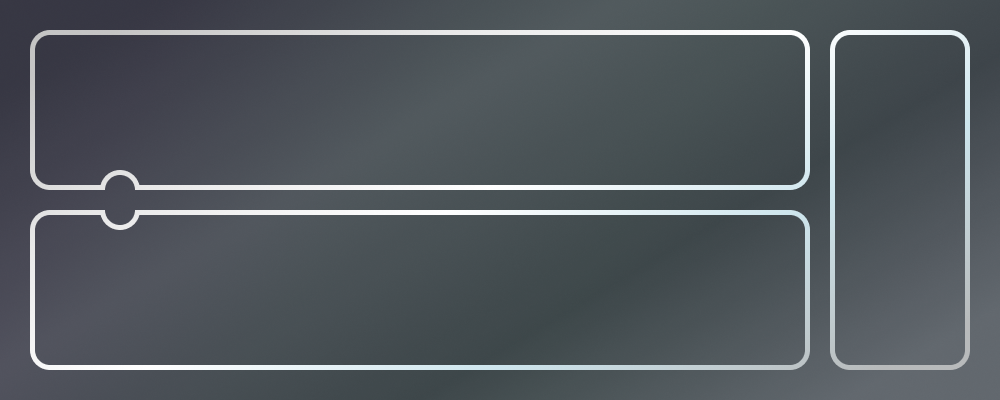
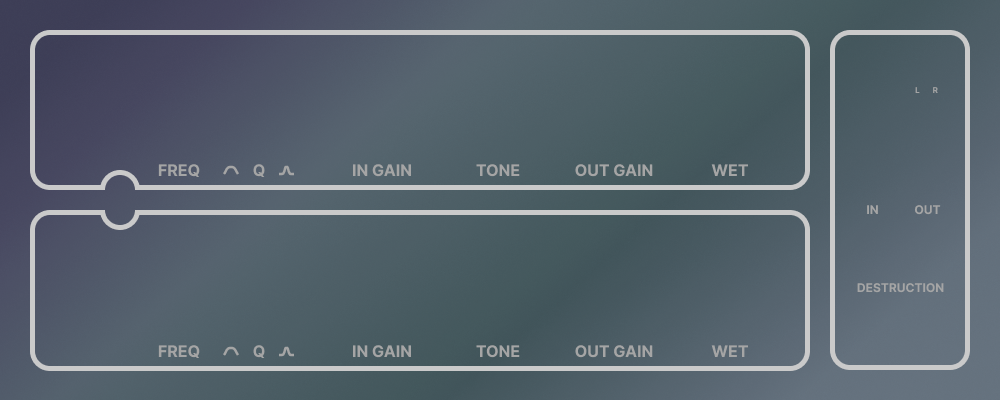
Tone filter implemented

Changed region(s): [[0.031, 0.0, 1.0, 0.93], [0.837, 0.69, 0.961, 0.75], [0.465, 0.0, 0.496, 0.03]]

diff --git a/ADHD/Source/PluginEditor.cpp b/ADHD/Source/PluginEditor.cpp
@@ -22,7 +22,15 @@ ADHDAudioProcessorEditor::ADHDAudioProcessorEditor(ADHDAudioProcessor& p): Audio
     //LRButton.setToggleState(true, false);
     //linkButton.setToggleState(true, false);
     
+    bg = juce::ImageCache::getFromMemory(BinaryData::GUI_definitivaBG_png, BinaryData::GUI_definitivaBG_pngSize);
+    bgD = juce::ImageCache::getFromMemory(BinaryData::GUI_definitivaBG_Destroy_png, BinaryData::GUI_definitivaBG_Destroy_pngSize);
     
+    lrLabel = juce::ImageCache::getFromMemory(BinaryData::LR_labels_png, BinaryData::LR_labels_pngSize);
+    msLabel = juce::ImageCache::getFromMemory(BinaryData::MS_labels_png, BinaryData::MS_labels_pngSize);
+    lrLabelMeter = juce::ImageCache::getFromMemory(BinaryData::LR_labels_meters_png, BinaryData::LR_labels_meters_pngSize);
+    msLabelMeter = juce::ImageCache::getFromMemory(BinaryData::MS_labels_meters_png, BinaryData::MS_labels_meters_pngSize);
+
+
     linkButton.onClick = [this] {
         bool stateLink = linkButton.getToggleState();
         if(stateLink)
@@ -64,6 +72,8 @@ ADHDAudioProcessorEditor::ADHDAudioProcessorEditor(ADHDAudioProcessor& p): Audio
     channelOnLLAttachment.reset (new juce::AudioProcessorValueTreeState::ButtonAttachment (audioProcessor.treeState, "CHANNELONL", *channelL.getChannelOn()));
     channelOnRRAttachment.reset (new juce::AudioProcessorValueTreeState::ButtonAttachment (audioProcessor.treeState, "CHANNELONR", *channelR.getChannelOn()));
 
+    toneLLAttachment.reset(new juce::AudioProcessorValueTreeState::SliderAttachment(audioProcessor.treeState, "TONEL", *channelL.getToneDial()));
+    toneRRAttachment.reset(new juce::AudioProcessorValueTreeState::SliderAttachment(audioProcessor.treeState, "TONER", *channelR.getToneDial()));
 
     destroyButton.setLookAndFeel(&dbLeF);
     
@@ -133,6 +143,10 @@ ADHDAudioProcessorEditor::ADHDAudioProcessorEditor(ADHDAudioProcessor& p): Audio
         repaint();
     };
 
+    msLr.onClick = [this] {
+        repaint();
+    };
+
     bool state = destroyButton.getToggleState();
     bkLeF.setDestroy(state);
     lkLeF.setDestroy(state);
@@ -173,8 +187,17 @@ ADHDAudioProcessorEditor::~ADHDAudioProcessorEditor()
 //=============================================================================
 void ADHDAudioProcessorEditor::paint (juce::Graphics& g)
 {
-    g.drawImageAt(juce::ImageCache::getFromMemory(BinaryData::GUI_definitivaBGMS_png, BinaryData::GUI_definitivaBGMS_pngSize), 0, 0);
+    if (destroyButton.getToggleState()) g.drawImageAt(bgD, 0, 0);
+    else g.drawImageAt(bg, 0, 0);
 
+    if (!msLr.getToggleState()) {
+        g.drawImageAt(lrLabel, 77, 82);
+        g.drawImageAt(lrLabelMeter, 859, 86);
+    }
+    else {
+        g.drawImageAt(msLabel, 77, 82);
+        g.drawImageAt(msLabelMeter, 859, 86);
+    }
 
     // (Our component is opaque, so we must completely fill the background with a solid colour)
     juce::Rectangle<int> channelAreaL(30, 30, 780, 160);
@@ -287,11 +310,11 @@ void ADHDAudioProcessorEditor::resized()
     //MSButton.setBounds(MSButtonArea);
     msLr.setBounds(msLrArea);
     
-    juce::Rectangle<int> inMeterAreaL(20 + xOffset, 60 + yOffset, 20, 120);
-    juce::Rectangle<int> inMeterAreaR(40 + xOffset, 60 + yOffset, 20, 120);
+    juce::Rectangle<int> inMeterAreaL(26 + xOffset, 65 + yOffset, 17, 105);
+    juce::Rectangle<int> inMeterAreaR(44 + xOffset, 65 + yOffset, 17, 105);
     
-    juce::Rectangle<int> outMeterAreaL(80 + xOffset, 60 + yOffset, 20, 120);
-    juce::Rectangle<int> outMeterAreaR(100 + xOffset, 60 + yOffset, 20, 120);
+    juce::Rectangle<int> outMeterAreaL(79 + xOffset, 65 + yOffset, 17, 105);
+    juce::Rectangle<int> outMeterAreaR(97 + xOffset, 65 + yOffset, 17, 105);
     
     plMeterInL.setBounds(inMeterAreaL);
     plMeterInR.setBounds(inMeterAreaR);
@@ -306,29 +329,32 @@ void ADHDAudioProcessorEditor::resized()
 
 void ADHDAudioProcessorEditor::setLinkedAttachments() {
     
+    // R -> L
     gainRLAttachment.reset (new juce::AudioProcessorValueTreeState::SliderAttachment (audioProcessor.treeState, "GAINL", *channelR.getInGainDial()));
     volumeRLAttachment.reset (new juce::AudioProcessorValueTreeState::SliderAttachment (audioProcessor.treeState, "VOLUMEL", *channelR.getOutGainDial()));
     dryWetRLAttachment.reset (new juce::AudioProcessorValueTreeState::SliderAttachment (audioProcessor.treeState, "DRYWETL", *channelR.getDryWetDial()));
     freqRLAttachment.reset (new juce::AudioProcessorValueTreeState::SliderAttachment (audioProcessor.treeState, "FREQL", *channelR.getFreqDial()));
     qRLAttachment.reset (new juce::AudioProcessorValueTreeState::SliderAttachment (audioProcessor.treeState, "QL", *channelR.getQFactorDial()));
-    eqBPLRAttachment.reset (new juce::AudioProcessorValueTreeState::ButtonAttachment (audioProcessor.treeState, "EQBPR", *channelL.getFilterBP()));
     eqLPRLAttachment.reset (new juce::AudioProcessorValueTreeState::ButtonAttachment (audioProcessor.treeState, "EQLPL", *channelR.getFilterLP()));
     eqBPRLAttachment.reset (new juce::AudioProcessorValueTreeState::ButtonAttachment (audioProcessor.treeState, "EQBPL", *channelR.getFilterBP()));
     eqHPRLAttachment.reset (new juce::AudioProcessorValueTreeState::ButtonAttachment (audioProcessor.treeState, "EQHPL", *channelR.getFilterHP()));
     eqOnRLAttachment.reset (new juce::AudioProcessorValueTreeState::ButtonAttachment (audioProcessor.treeState, "EQONL", *channelR.getFilterOn()));
     channelOnRLAttachment.reset (new juce::AudioProcessorValueTreeState::ButtonAttachment (audioProcessor.treeState, "CHANNELONL", *channelR.getChannelOn()));
+    toneRLAttachment.reset(new juce::AudioProcessorValueTreeState::SliderAttachment(audioProcessor.treeState, "TONEL", *channelR.getToneDial()));
     
-    
+    // L -> R
     gainLRAttachment.reset (new juce::AudioProcessorValueTreeState::SliderAttachment (audioProcessor.treeState, "GAINR", *channelL.getInGainDial()));
     volumeLRAttachment.reset (new juce::AudioProcessorValueTreeState::SliderAttachment (audioProcessor.treeState, "VOLUMER", *channelL.getOutGainDial()));
     dryWetLRAttachment.reset (new juce::AudioProcessorValueTreeState::SliderAttachment (audioProcessor.treeState, "DRYWETR", *channelL.getDryWetDial()));
     freqLRAttachment.reset (new juce::AudioProcessorValueTreeState::SliderAttachment (audioProcessor.treeState, "FREQR", *channelL.getFreqDial()));
     qLRAttachment.reset (new juce::AudioProcessorValueTreeState::SliderAttachment (audioProcessor.treeState, "QR", *channelL.getQFactorDial()));
     eqLPLRAttachment.reset (new juce::AudioProcessorValueTreeState::ButtonAttachment (audioProcessor.treeState, "EQLPR", *channelL.getFilterLP()));
+    eqBPLRAttachment.reset (new juce::AudioProcessorValueTreeState::ButtonAttachment (audioProcessor.treeState, "EQBPR", *channelL.getFilterBP()));
     eqHPLRAttachment.reset (new juce::AudioProcessorValueTreeState::ButtonAttachment (audioProcessor.treeState, "EQHPR", *channelL.getFilterHP()));
     eqOnLRAttachment.reset (new juce::AudioProcessorValueTreeState::ButtonAttachment (audioProcessor.treeState, "EQONR", *channelL.getFilterOn()));
     channelOnLRAttachment.reset (new juce::AudioProcessorValueTreeState::ButtonAttachment (audioProcessor.treeState, "CHANNELONR", *channelL.getChannelOn()));
-     
+    toneLRAttachment.reset(new juce::AudioProcessorValueTreeState::SliderAttachment(audioProcessor.treeState, "TONER", *channelL.getToneDial()));
+   
 }
 
 void ADHDAudioProcessorEditor::setUnlinkedAttachments() {
@@ -343,6 +369,9 @@ void ADHDAudioProcessorEditor::setUnlinkedAttachments() {
     freqRLAttachment.reset ();
     qLRAttachment.reset ();
     qRLAttachment.reset ();
+
+    toneLRAttachment.reset();
+    toneRLAttachment.reset();
     
     eqLPLRAttachment.reset ();
     eqBPLRAttachment.reset ();

diff --git a/ADHD/Source/PluginProcessor.cpp b/ADHD/Source/PluginProcessor.cpp
@@ -60,7 +60,11 @@ oversamplingModuleR(1, overSampFactor, juce::dsp::Oversampling<float>::FilterTyp
     treeState.addParameterListener("QR", this);
     treeState.addParameterListener("FREQR", this);
     treeState.addParameterListener("DISTTYPE", this);
+
     treeState.addParameterListener("DESTROYGAIN", this);
+
+    treeState.addParameterListener("TONEL", this);
+    treeState.addParameterListener("TONER", this);
 }
 
 ADHDAudioProcessor::~ADHDAudioProcessor()
@@ -96,7 +100,11 @@ ADHDAudioProcessor::~ADHDAudioProcessor()
     treeState.removeParameterListener("QR", this);
     treeState.removeParameterListener("DISTTYPE", this);
     treeState.removeParameterListener("FREQR", this);
+
     treeState.removeParameterListener("DESTROYGAIN", this);
+
+    treeState.removeParameterListener("TONEL", this);
+    treeState.removeParameterListener("TONER", this);
 
 }
 
@@ -184,8 +192,12 @@ void ADHDAudioProcessor::prepareToPlay (double sampleRate, int samplesPerBlock)
     
     filterL.reset();
     filterR.reset();
+    toneFilterL.reset();
+    toneFilterR.reset();
     filterL.prepare(spec);
     filterR.prepare(spec);
+    toneFilterL.prepare(spec);
+    toneFilterR.prepare(spec);
     
     rmsLevelInLeft.reset(sampleRate* pow(2, overSampFactor), 0.5);
     rmsLevelInRight.reset(sampleRate* pow(2, overSampFactor), 0.5);
@@ -263,8 +275,12 @@ void ADHDAudioProcessor::processBlock(juce::AudioBuffer<float>& buffer, juce::Mi
     for (auto i = totalNumInputChannels; i < totalNumOutputChannels; ++i)
         buffer.clear(i, 0, buffer.getNumSamples());
     
+    // FILTERS
+    toneFilterL.setType(juce::dsp::StateVariableTPTFilterType::lowpass);
+    toneFilterR.setType(juce::dsp::StateVariableTPTFilterType::lowpass);
     
-    
+    toneFilterL.setResonance(2.0f);
+    toneFilterR.setResonance(2.0f);
     
     //multi channel audio block that englobes the audio buffer used as audio source before oversampling
     juce::dsp::AudioBlock<float> srcBlockL(bufferL);
@@ -411,6 +427,9 @@ void ADHDAudioProcessor::processBlock(juce::AudioBuffer<float>& buffer, juce::Mi
     }
     //      }
     
+    // tone processing
+    toneFilterL.process(juce::dsp::ProcessContextReplacing <float>(overSBlockL));
+    toneFilterR.process(juce::dsp::ProcessContextReplacing <float>(overSBlockR));
     
     
     //parallel drywet channels Sum
@@ -543,7 +562,6 @@ void ADHDAudioProcessor::updateFilters(int numOfFilter, int type, float q, float
             filterL.setType(juce::dsp::StateVariableTPTFilterType::lowpass);
             filterL.setCutoffFrequency(freq);
             filterL.setResonance(q);
-            DBG("Freq: "<<freq);
         } else if(type==1){
             /*filterL.parameters->type = juce::dsp::
             StateVariableFilter::Parameters<float>::Type::bandPass;
@@ -762,6 +780,12 @@ juce::AudioProcessorValueTreeState::ParameterLayout ADHDAudioProcessor::createPa
 
     auto destroyGain = std::make_unique<juce::AudioParameterFloat>("DESTROYGAIN", "Gain of Destroy Section", 0.0f, 1.0f, 0.f);
     parameters.push_back(std::move(destroyGain));
+
+    auto toneFreqL = std::make_unique<juce::AudioParameterFloat>("TONEL", "Tone frequency L", 0.0f, 1.0f, 0.5f);
+    parameters.push_back(std::move(toneFreqL));
+
+    auto toneFreqR = std::make_unique<juce::AudioParameterFloat>("TONER", "Tone frequency R", 0.0f, 1.0f, 0.5f);
+    parameters.push_back(std::move(toneFreqR));
     
     return { parameters.begin(),parameters.end() };
 }
@@ -860,7 +884,14 @@ void ADHDAudioProcessor::parameterChanged(const juce::String& parameterID, float
     else if (parameterID == "DESTROYGAIN") {
         destroyGain = juce::jmap(newValue, 1.0f, 5.0f);
     }
-    
+    else if (parameterID == "TONEL") {
+        toneFreq[0] = juce::mapToLog10(newValue, 150.0f, 15000.0f);
+        filterL.setCutoffFrequency(toneFreq[0]);
+    }
+    else if (parameterID == "TONER") {
+        toneFreq[1] = juce::mapToLog10(newValue, 150.0f, 15000.0f);
+        filterR.setCutoffFrequency(toneFreq[1]);
+    }
     else if (parameterID == "DISTTYPE") {
         distType = newValue;
     }

diff --git a/ADHD/Source/PluginEditor.h b/ADHD/Source/PluginEditor.h
@@ -33,6 +33,13 @@ private:
     // access the processor object that created it.
     ADHDAudioProcessor& audioProcessor; 
 
+    juce::Image bg;
+    juce::Image bgD;
+    juce::Image lrLabel;
+    juce::Image msLabel;
+    juce::Image lrLabelMeter;
+    juce::Image msLabelMeter;
+
     ChannelComponent channelL;
     ChannelComponent channelR;
 
@@ -79,7 +86,12 @@ private:
     std::unique_ptr<juce::AudioProcessorValueTreeState::SliderAttachment> freqLRAttachment;
     std::unique_ptr<juce::AudioProcessorValueTreeState::SliderAttachment> freqRLAttachment;
     std::unique_ptr<juce::AudioProcessorValueTreeState::SliderAttachment> freqRRAttachment;
-    
+
+    std::unique_ptr<juce::AudioProcessorValueTreeState::SliderAttachment> toneLLAttachment;
+    std::unique_ptr<juce::AudioProcessorValueTreeState::SliderAttachment> toneLRAttachment;
+    std::unique_ptr<juce::AudioProcessorValueTreeState::SliderAttachment> toneRLAttachment;
+    std::unique_ptr<juce::AudioProcessorValueTreeState::SliderAttachment> toneRRAttachment;
+
     std::unique_ptr<juce::AudioProcessorValueTreeState::SliderAttachment> qLLAttachment;
     std::unique_ptr<juce::AudioProcessorValueTreeState::SliderAttachment> qLRAttachment;
     std::unique_ptr<juce::AudioProcessorValueTreeState::SliderAttachment> qRLAttachment;

diff --git a/ADHD/Source/PluginProcessor.h b/ADHD/Source/PluginProcessor.h
@@ -80,6 +80,8 @@ private:
     float destroyGain = 0.0f;
     int overSampFactor{2};
     int lastSampleRate{44100};
+    float toneFreq[2] = { 10000.0f, 10000.0f };
+
     juce::LinearSmoothedValue<float> rmsLevelInLeft,rmsLevelInRight,rmsLevelOutLeft,rmsLevelOutRight;
     juce::LinearSmoothedValue<float> magLevelInLeft,magLevelInRight,magLevelOutLeft,magLevelOutRight;
     
@@ -113,6 +115,9 @@ private:
 
     juce::dsp::StateVariableTPTFilter<float> filterL;
     juce::dsp::StateVariableTPTFilter<float> filterR;
+
+    juce::dsp::StateVariableTPTFilter<float> toneFilterL;
+    juce::dsp::StateVariableTPTFilter<float> toneFilterR;
 
     //==============================================================================
     JUCE_DECLARE_NON_COPYABLE_WITH_LEAK_DETECTOR (ADHDAudioProcessor)
